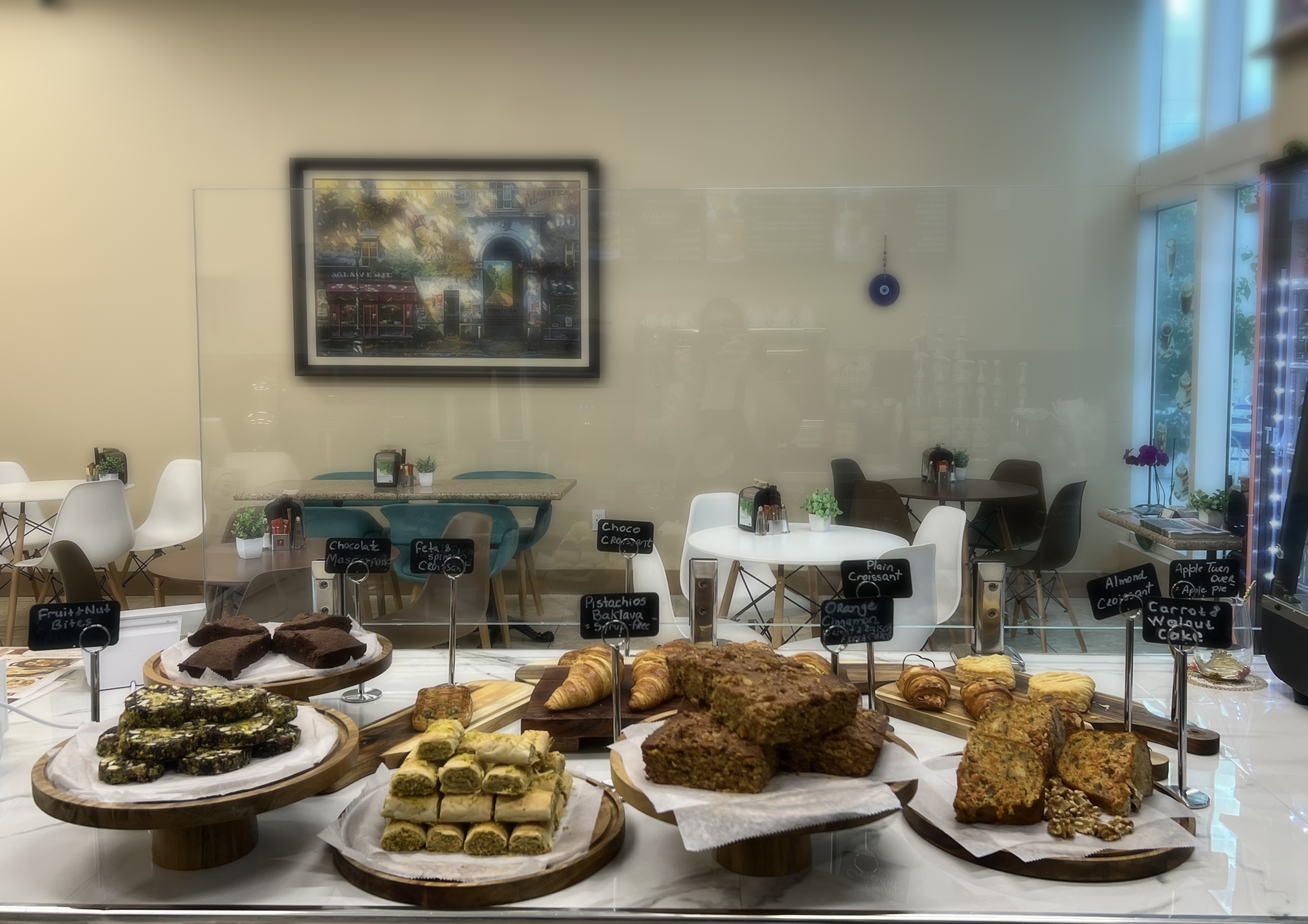
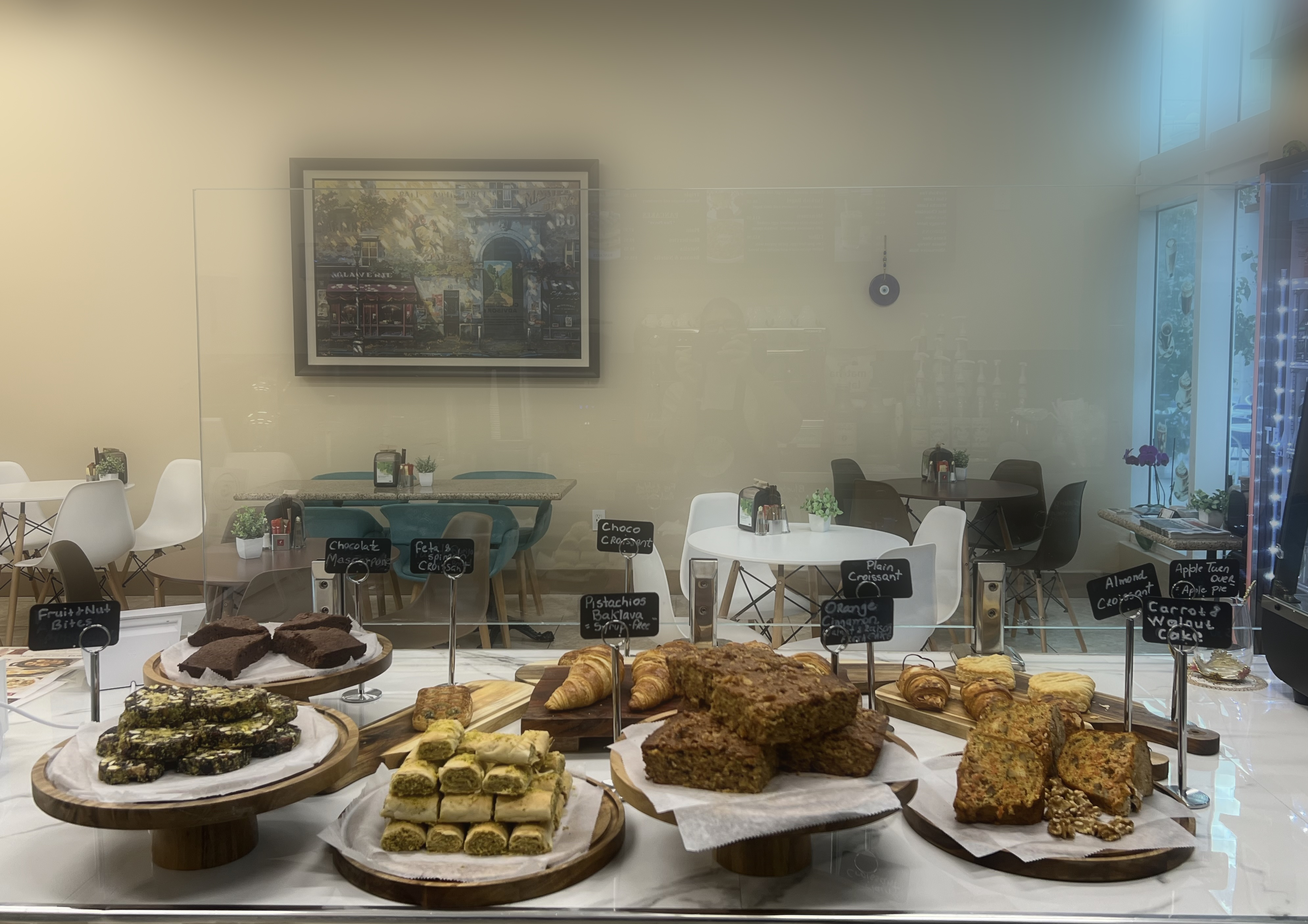
Update hero section and background image
Replit-Commit-Author: Agent

diff --git a/client/src/components/Hero.tsx b/client/src/components/Hero.tsx
@@ -1,6 +1,6 @@
 import { Button } from "@/components/ui/button";
 import { ArrowRight } from "lucide-react";
-import heroImage from "@assets/hero_foggy.jpg";
+import heroImage from "@assets/IMG_8811_1786632258425.jpg";
 import OrderOnlineDialog from "./OrderOnlineDialog";
 
 export default function Hero() {
@@ -13,6 +13,10 @@ export default function Hero() {
           alt="Table spread with Brazilian, Turkish and French food"
           className="w-full h-full object-cover object-center"
         />
+        {/* Fog layer over tables/chairs (top 65%) */}
+        <div className="absolute inset-x-0 top-0 h-[65%]" style={{ backdropFilter: 'blur(12px)', WebkitBackdropFilter: 'blur(12px)', background: 'rgba(255,255,255,0.08)' }} />
+        {/* Gentle fade at transition point */}
+        <div className="absolute inset-x-0 top-[55%] h-[20%] bg-gradient-to-b from-transparent to-transparent" style={{ backdropFilter: 'blur(4px)', WebkitBackdropFilter: 'blur(4px)' }} />
         <div className="absolute inset-0 bg-gradient-to-b from-black/10 via-black/5 to-black/40" />
       </div>
 
